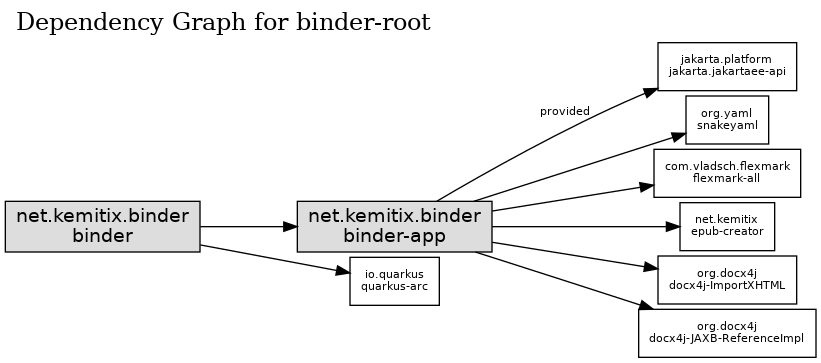
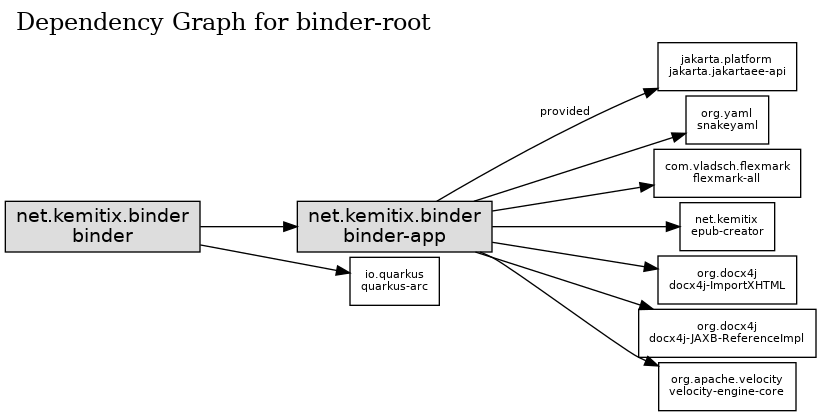
Create copyright page (#32)
* Add velocity-engine 2.2 dependency

* TemplateEngine - no-op added

* Process templates with velocity

* render templates without using files and tweak context

* Section add author field

* Add copyright page

* Fix tests

diff --git a/binder-app/src/test/java/net/kemitix/binder/app/BinderTest.java b/binder-app/src/test/java/net/kemitix/binder/app/BinderTest.java
@@ -8,6 +8,7 @@ import net.kemitix.binder.app.docx.DocxWriter;
 import net.kemitix.binder.app.epub.EpubContentFactory;
 import net.kemitix.binder.app.epub.EpubFactory;
 import net.kemitix.binder.app.epub.EpubWriter;
+import org.apache.velocity.app.VelocityEngine;
 import org.assertj.core.api.WithAssertions;
 import org.junit.jupiter.api.BeforeEach;
 import org.junit.jupiter.api.Test;
@@ -31,15 +32,17 @@ public class BinderTest
             return new File(getClass().getResource("valid").getPath());
         }
     };
+    VelocityEngine velocityEngine = new VelocityProvider().velocityEngine();
+    TemplateEngine templateEngine = new TemplateEngine(velocityEngine);
     YamlLoader yamlLoader = new YamlLoader();
     private final SectionLoader sectionLoader =
             new SectionLoader(binderConfig, yamlLoader);
     private final ManuscriptLoader manuscriptLoader =
-            new ManuscriptLoader(sectionLoader, yamlLoader);
+            new ManuscriptLoader(sectionLoader, yamlLoader, templateEngine);
     Metadata metadata = manuscriptLoader.metadata(binderConfig);
     Manuscript manuscript = manuscriptLoader.manuscript(metadata);
     MarkdownToHtml markdownToHtml = new MarkdownToHtmlProducer()
-            .markdownToHtml();
+            .markdownToHtml(templateEngine, manuscript);
     HtmlFactory htmlFactory = new HtmlFactory(
             binderConfig,
             manuscript,
@@ -120,8 +123,10 @@ public class BinderTest
         assertThat(content.getHref()).isEqualTo("content/prelude-1.html");
         assertThat(content.getProperties()).isNull();
         assertThat(content.getContent()).asString()
+                .startsWith("<html><head><title>test prelude 1 title</title></head>\n<body>")
                 .contains("<h1>Document Title</h1>")
-                .contains("<p>document body</p>");
+                .contains("<p>document body</p>")
+                .endsWith("\n</body>\n</html>");
         assertThat(content.isLinear()).isTrue();
         assertThat(content.isSpine()).isTrue();
         assertThat(content.isToc()).isFalse();

diff --git a/binder-app/src/main/java/net/kemitix/binder/app/TemplateEngine.java b/binder-app/src/main/java/net/kemitix/binder/app/TemplateEngine.java
@@ -1,0 +1,55 @@
+package net.kemitix.binder.app;
+
+import org.apache.velocity.VelocityContext;
+import org.apache.velocity.app.VelocityEngine;
+import org.apache.velocity.context.Context;
+
+import javax.enterprise.context.ApplicationScoped;
+import javax.inject.Inject;
+import java.io.StringWriter;
+import java.io.Writer;
+import java.util.stream.Collectors;
+
+@ApplicationScoped
+public class TemplateEngine {
+
+    private static final String NON_BREAKING_SPACE = "\u00A0";
+    private final VelocityEngine velocityEngine;
+
+    @Inject
+    public TemplateEngine(VelocityEngine velocityEngine) {
+        this.velocityEngine = velocityEngine;
+    }
+
+    public String resolve(
+            String templateBody,
+            Section section,
+            Manuscript manuscript
+    ) {
+        Context context = new VelocityContext();
+        context.put("m", manuscript.getMetadata());
+        context.put("c", manuscript.getContents());
+        context.put("s", section);
+        context.put("copyrights", copyrights(manuscript));
+        Writer writer = new StringWriter();
+        velocityEngine.evaluate(context, writer, "", templateBody);
+        return writer.toString();
+    }
+
+    private String copyrights(Manuscript manuscript) {
+        return manuscript.getContents().stream()
+                .filter(section -> "story".equals(section.getType()))
+                .map(section -> "%s ©%s by%s%s".formatted(
+                        section.getTitle(),
+                        section.getCopyright(),
+                        NON_BREAKING_SPACE,
+                        unBreakable(section.getAuthor())
+                ))
+                .collect(Collectors.joining("<br/>"));
+    }
+
+    private String unBreakable(String s) {
+        return s.replaceAll(" ", NON_BREAKING_SPACE);
+    }
+
+}

diff --git a/binder-app/src/test/java/net/kemitix/binder/app/HtmlFactoryTest.java b/binder-app/src/test/java/net/kemitix/binder/app/HtmlFactoryTest.java
@@ -1,5 +1,6 @@
 package net.kemitix.binder.app;
 
+import org.apache.velocity.app.VelocityEngine;
 import org.assertj.core.api.WithAssertions;
 import org.junit.jupiter.api.BeforeEach;
 import org.junit.jupiter.api.DisplayName;
@@ -17,13 +18,14 @@ public class HtmlFactoryTest
     File validDirectory = new File(getClass().getResource("valid").getPath());
     AtomicReference<File> scanDirectory = new AtomicReference<>();
     BinderConfig binderConfig = () -> scanDirectory.get();
+    VelocityEngine velocityEngine = new VelocityProvider().velocityEngine();
+    TemplateEngine templateEngine = new TemplateEngine(velocityEngine);
     YamlLoader yamlLoader = new YamlLoader();
     SectionLoader sectionLoader = new SectionLoader(binderConfig, yamlLoader);
-    ManuscriptLoader manuscriptLoader = new ManuscriptLoader(sectionLoader, yamlLoader);
+    ManuscriptLoader manuscriptLoader = new ManuscriptLoader(sectionLoader, yamlLoader, templateEngine);
     Metadata metadata;
     Manuscript manuscript;
-    MarkdownToHtml markdownToHtml = new MarkdownToHtmlProducer().markdownToHtml();
-
+    MarkdownToHtml markdownToHtml;
     HtmlFactory htmlFactory;
 
     @BeforeEach
@@ -31,6 +33,8 @@ public class HtmlFactoryTest
         scanDirectory.set(validDirectory);
         metadata = manuscriptLoader.metadata(binderConfig);
         manuscript = manuscriptLoader.manuscript(metadata);
+        markdownToHtml = new MarkdownToHtmlProducer()
+                .markdownToHtml(templateEngine, manuscript);
         htmlFactory = new HtmlFactory(binderConfig, manuscript, markdownToHtml);
     }
 

diff --git a/binder-app/src/main/java/net/kemitix/binder/app/MarkdownToHtmlProducer.java b/binder-app/src/main/java/net/kemitix/binder/app/MarkdownToHtmlProducer.java
@@ -11,11 +11,30 @@ import javax.enterprise.inject.Produces;
 public class MarkdownToHtmlProducer {
 
     @Produces
-    MarkdownToHtml markdownToHtml() {
+    MarkdownToHtml markdownToHtml(
+            TemplateEngine templateEngine,
+            Manuscript manuscript
+    ) {
         MutableDataSet dataSet = new MutableDataSet();
         Parser parser = Parser.builder(dataSet).build();
         HtmlRenderer renderer = HtmlRenderer.builder().build();
-        return markdown -> renderer.render(parser.parse(markdown));
+        return section ->
+                renderTemplate(
+                        renderer.render(parser.parse(section.getMarkdown())),
+                        section,
+                        manuscript,
+                        templateEngine);
+    }
+
+    private String renderTemplate(
+            String rawHtml,
+            Section section,
+            Manuscript manuscript,
+            TemplateEngine templateEngine) {
+        return "<html><head><title>%s</title></head>\n<body>\n\n%s\n</body>\n</html>"
+                .formatted(
+                        section.getTitle(),
+                        templateEngine.resolve(rawHtml, section, manuscript));
     }
 
 }

diff --git a/binder-app/src/main/java/net/kemitix/binder/app/YamlLoader.java b/binder-app/src/main/java/net/kemitix/binder/app/YamlLoader.java
@@ -4,6 +4,7 @@ import org.yaml.snakeyaml.Yaml;
 import org.yaml.snakeyaml.constructor.Constructor;
 
 import javax.enterprise.context.ApplicationScoped;
+import javax.inject.Inject;
 import java.io.File;
 import java.io.FileNotFoundException;
 import java.io.IOException;
@@ -28,9 +29,8 @@ public class YamlLoader {
         }
     }
 
-    public  <T extends Section> T loadSectionFile(
-            File file,
-            Class<T> theRoot
+    public  Section loadSectionFile(
+            File file
     ) throws IOException {
         requireFileExists(file);
         List<String> lines = Files.readAllLines(file.toPath());
@@ -41,7 +41,7 @@ public class YamlLoader {
                 .collect(Collectors.toList());
         String body = lines.stream().skip(header.size() + 2)
                 .collect(Collectors.joining(System.lineSeparator()));
-        T section = parseYamlFromFile(file, theRoot,
+        Section section = parseYamlFromFile(file, Section.class,
                 String.join(System.lineSeparator(), header));
         section.setMarkdown(body);
         return section;

diff --git a/binder-app/src/main/java/net/kemitix/binder/app/ManuscriptLoader.java b/binder-app/src/main/java/net/kemitix/binder/app/ManuscriptLoader.java
@@ -13,14 +13,17 @@ public class ManuscriptLoader {
 
     private final SectionLoader sectionLoader;
     private final YamlLoader yamlLoader;
+    private final TemplateEngine templateEngine;
 
     @Inject
     public ManuscriptLoader(
             SectionLoader sectionLoader,
-            YamlLoader yamlLoader
+            YamlLoader yamlLoader,
+            TemplateEngine templateEngine
     ) {
         this.sectionLoader = sectionLoader;
         this.yamlLoader = yamlLoader;
+        this.templateEngine = templateEngine;
     }
 
     @Produces
@@ -51,14 +54,8 @@ public class ManuscriptLoader {
     ) {
         if (filenames == null) return Collections.emptyList();
         return filenames.stream()
-                .map(this::loadFile)
+                .map(sectionLoader::load)
                 .collect(Collectors.toList());
-    }
-
-    private Section loadFile(
-            String filename
-    ) {
-        return sectionLoader.load(filename);
     }
 
 }

diff --git a/binder-app/src/test/java/net/kemitix/binder/app/ManuscriptLoaderTest.java b/binder-app/src/test/java/net/kemitix/binder/app/ManuscriptLoaderTest.java
@@ -1,5 +1,6 @@
 package net.kemitix.binder.app;
 
+import org.apache.velocity.app.VelocityEngine;
 import org.assertj.core.api.WithAssertions;
 import org.junit.jupiter.api.BeforeEach;
 import org.junit.jupiter.api.DisplayName;
@@ -34,11 +35,13 @@ public class ManuscriptLoaderTest
     private File validDirectory = new File(getClass().getResource("valid").getPath());
     private File missingDirectory = new File("missing");
     private File invalidDirectory = new File(getClass().getResource("invalid").getPath());
+    VelocityEngine velocityEngine = new VelocityProvider().velocityEngine();
+    TemplateEngine templateEngine = new TemplateEngine(velocityEngine);
 
     @BeforeEach
     public void setUp() {
         sectionLoader = new SectionLoader(binderConfig, yamlLoader);
-        manuscriptLoader = new ManuscriptLoader(sectionLoader, yamlLoader);
+        manuscriptLoader = new ManuscriptLoader(sectionLoader, yamlLoader, templateEngine);
     }
 
     @Nested

diff --git a/binder-app/src/main/java/net/kemitix/binder/app/Section.java b/binder-app/src/main/java/net/kemitix/binder/app/Section.java
@@ -23,10 +23,14 @@ public class Section {
 
     private String type; // prelude, content or coda
     private boolean toc = true; // show in table of contents
+    private boolean template = false; // should expand template variables
     private String title; // the title, taken from the yaml header
     private String name; // the base filename
+    private String author;
+    private int copyright; // the year the story was copyrighted
     private File filename; // the file loaded
     private String markdown; // the markdown contents of the file, after removing yaml header
     private File htmlFile;
+    private String html;
 
 }

diff --git a/binder-app/src/main/java/net/kemitix/binder/app/HtmlFactory.java b/binder-app/src/main/java/net/kemitix/binder/app/HtmlFactory.java
@@ -39,10 +39,7 @@ public class HtmlFactory {
      */
     private void createHtmlForSection(Section section) {
         String markdown = section.getMarkdown();
-        String html = "<html><head><title>%s</title></head><body>%s</body></html>"
-                .formatted(
-                        section.getTitle(),
-                        markdownToHtml.apply(markdown));
+        String html = markdownToHtml.apply(section);
         Path binder = binderConfig.getBinderOutputDirectory().toPath();
         Path filename = binder
                 .resolve(String.format("%s.%s", section.getName(), "html"));

diff --git a/binder-app/src/main/java/net/kemitix/binder/app/VelocityProvider.java b/binder-app/src/main/java/net/kemitix/binder/app/VelocityProvider.java
@@ -1,0 +1,17 @@
+package net.kemitix.binder.app;
+
+import org.apache.velocity.app.VelocityEngine;
+
+import javax.enterprise.context.ApplicationScoped;
+import javax.enterprise.inject.Produces;
+
+@ApplicationScoped
+public class VelocityProvider {
+
+    @Produces
+    VelocityEngine velocityEngine() {
+        VelocityEngine velocityEngine = new VelocityEngine();
+        velocityEngine.setProperty("resource.loader.file.path", "/");
+        return velocityEngine;
+    }
+}

diff --git a/binder-app/src/main/java/net/kemitix/binder/app/SectionLoader.java b/binder-app/src/main/java/net/kemitix/binder/app/SectionLoader.java
@@ -30,7 +30,7 @@ public class SectionLoader {
 
     private Section loadSection(File filename) {
         try {
-            return yamlLoader.loadSectionFile(filename, Section.class);
+            return yamlLoader.loadSectionFile(filename);
         } catch (IOException e) {
             throw new ManuscriptFormatException(String.format(
                     "Error loading section: %s", filename), e);

diff --git a/binder-app/src/main/java/net/kemitix/binder/app/Manuscript.java b/binder-app/src/main/java/net/kemitix/binder/app/Manuscript.java
@@ -4,11 +4,13 @@ import lombok.AccessLevel;
 import lombok.AllArgsConstructor;
 import lombok.Getter;
 import lombok.NoArgsConstructor;
+import lombok.With;
 
 import javax.enterprise.inject.Vetoed;
 import java.util.List;
 
 @Getter
+@With
 @Vetoed
 @NoArgsConstructor
 @AllArgsConstructor(access = AccessLevel.PRIVATE)
